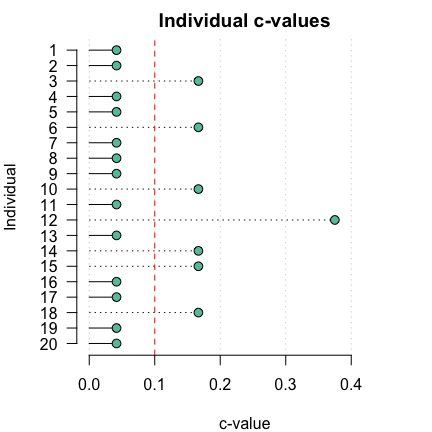
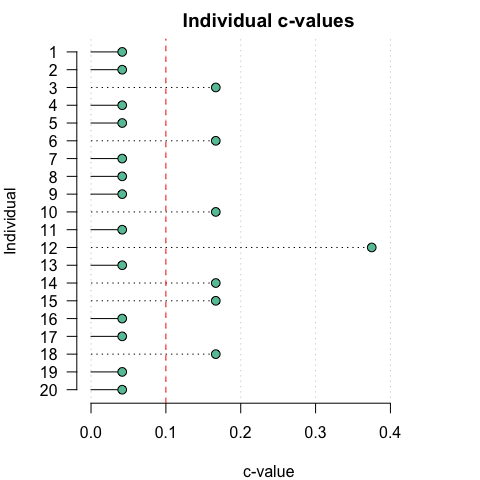
side-by-side plots in README

diff --git a/README.md b/README.md
@@ -191,15 +191,10 @@ be plotted relative to specified thresholds:
 
 ``` r
 pcc_plot(opamod, threshold = 90)
-```
-
-<img src="man/figures/README-threshold plots-1.png" style="display: block; margin: auto;" />
-
-``` r
 cval_plot(opamod, threshold = 0.1)
 ```
 
-<img src="man/figures/README-threshold plots-2.png" style="display: block; margin: auto;" />
+<img src="man/figures/README-threshold plots-1.png" width="50%" style="display: block; margin: auto;" /><img src="man/figures/README-threshold plots-2.png" width="50%" style="display: block; margin: auto;" />
 
 ### Pairwise comparison of measurement conditions
 
